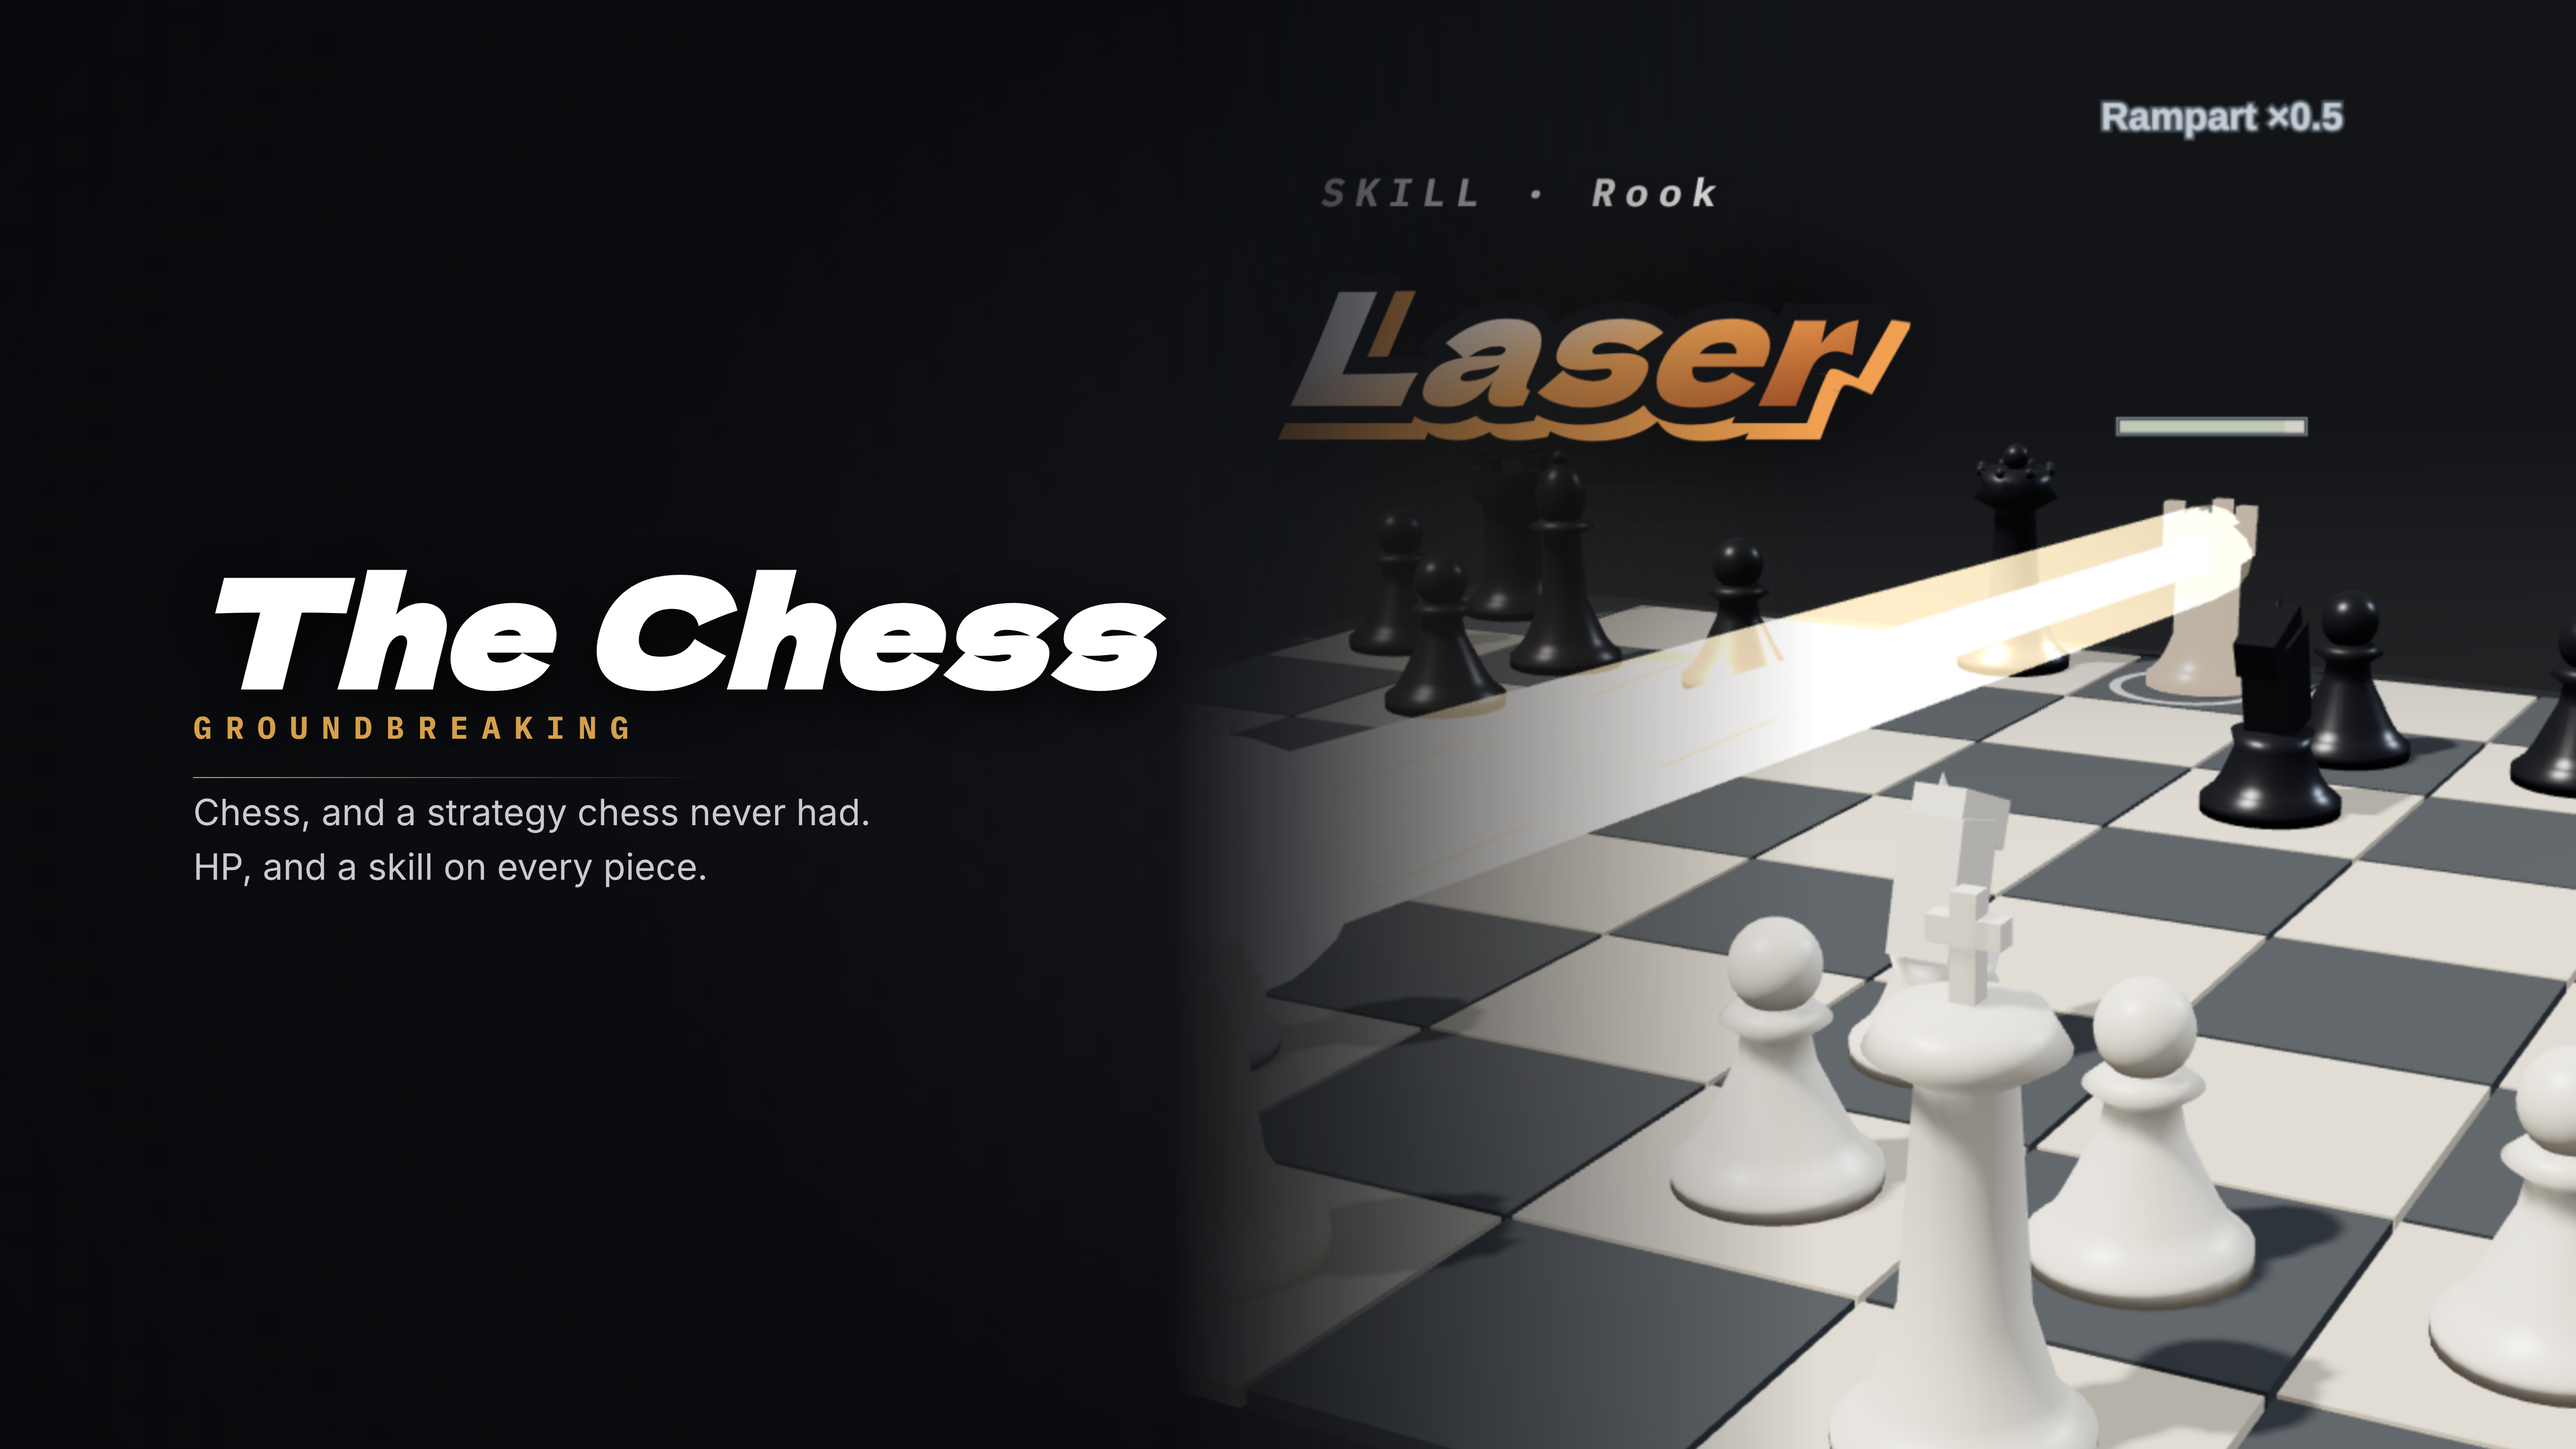
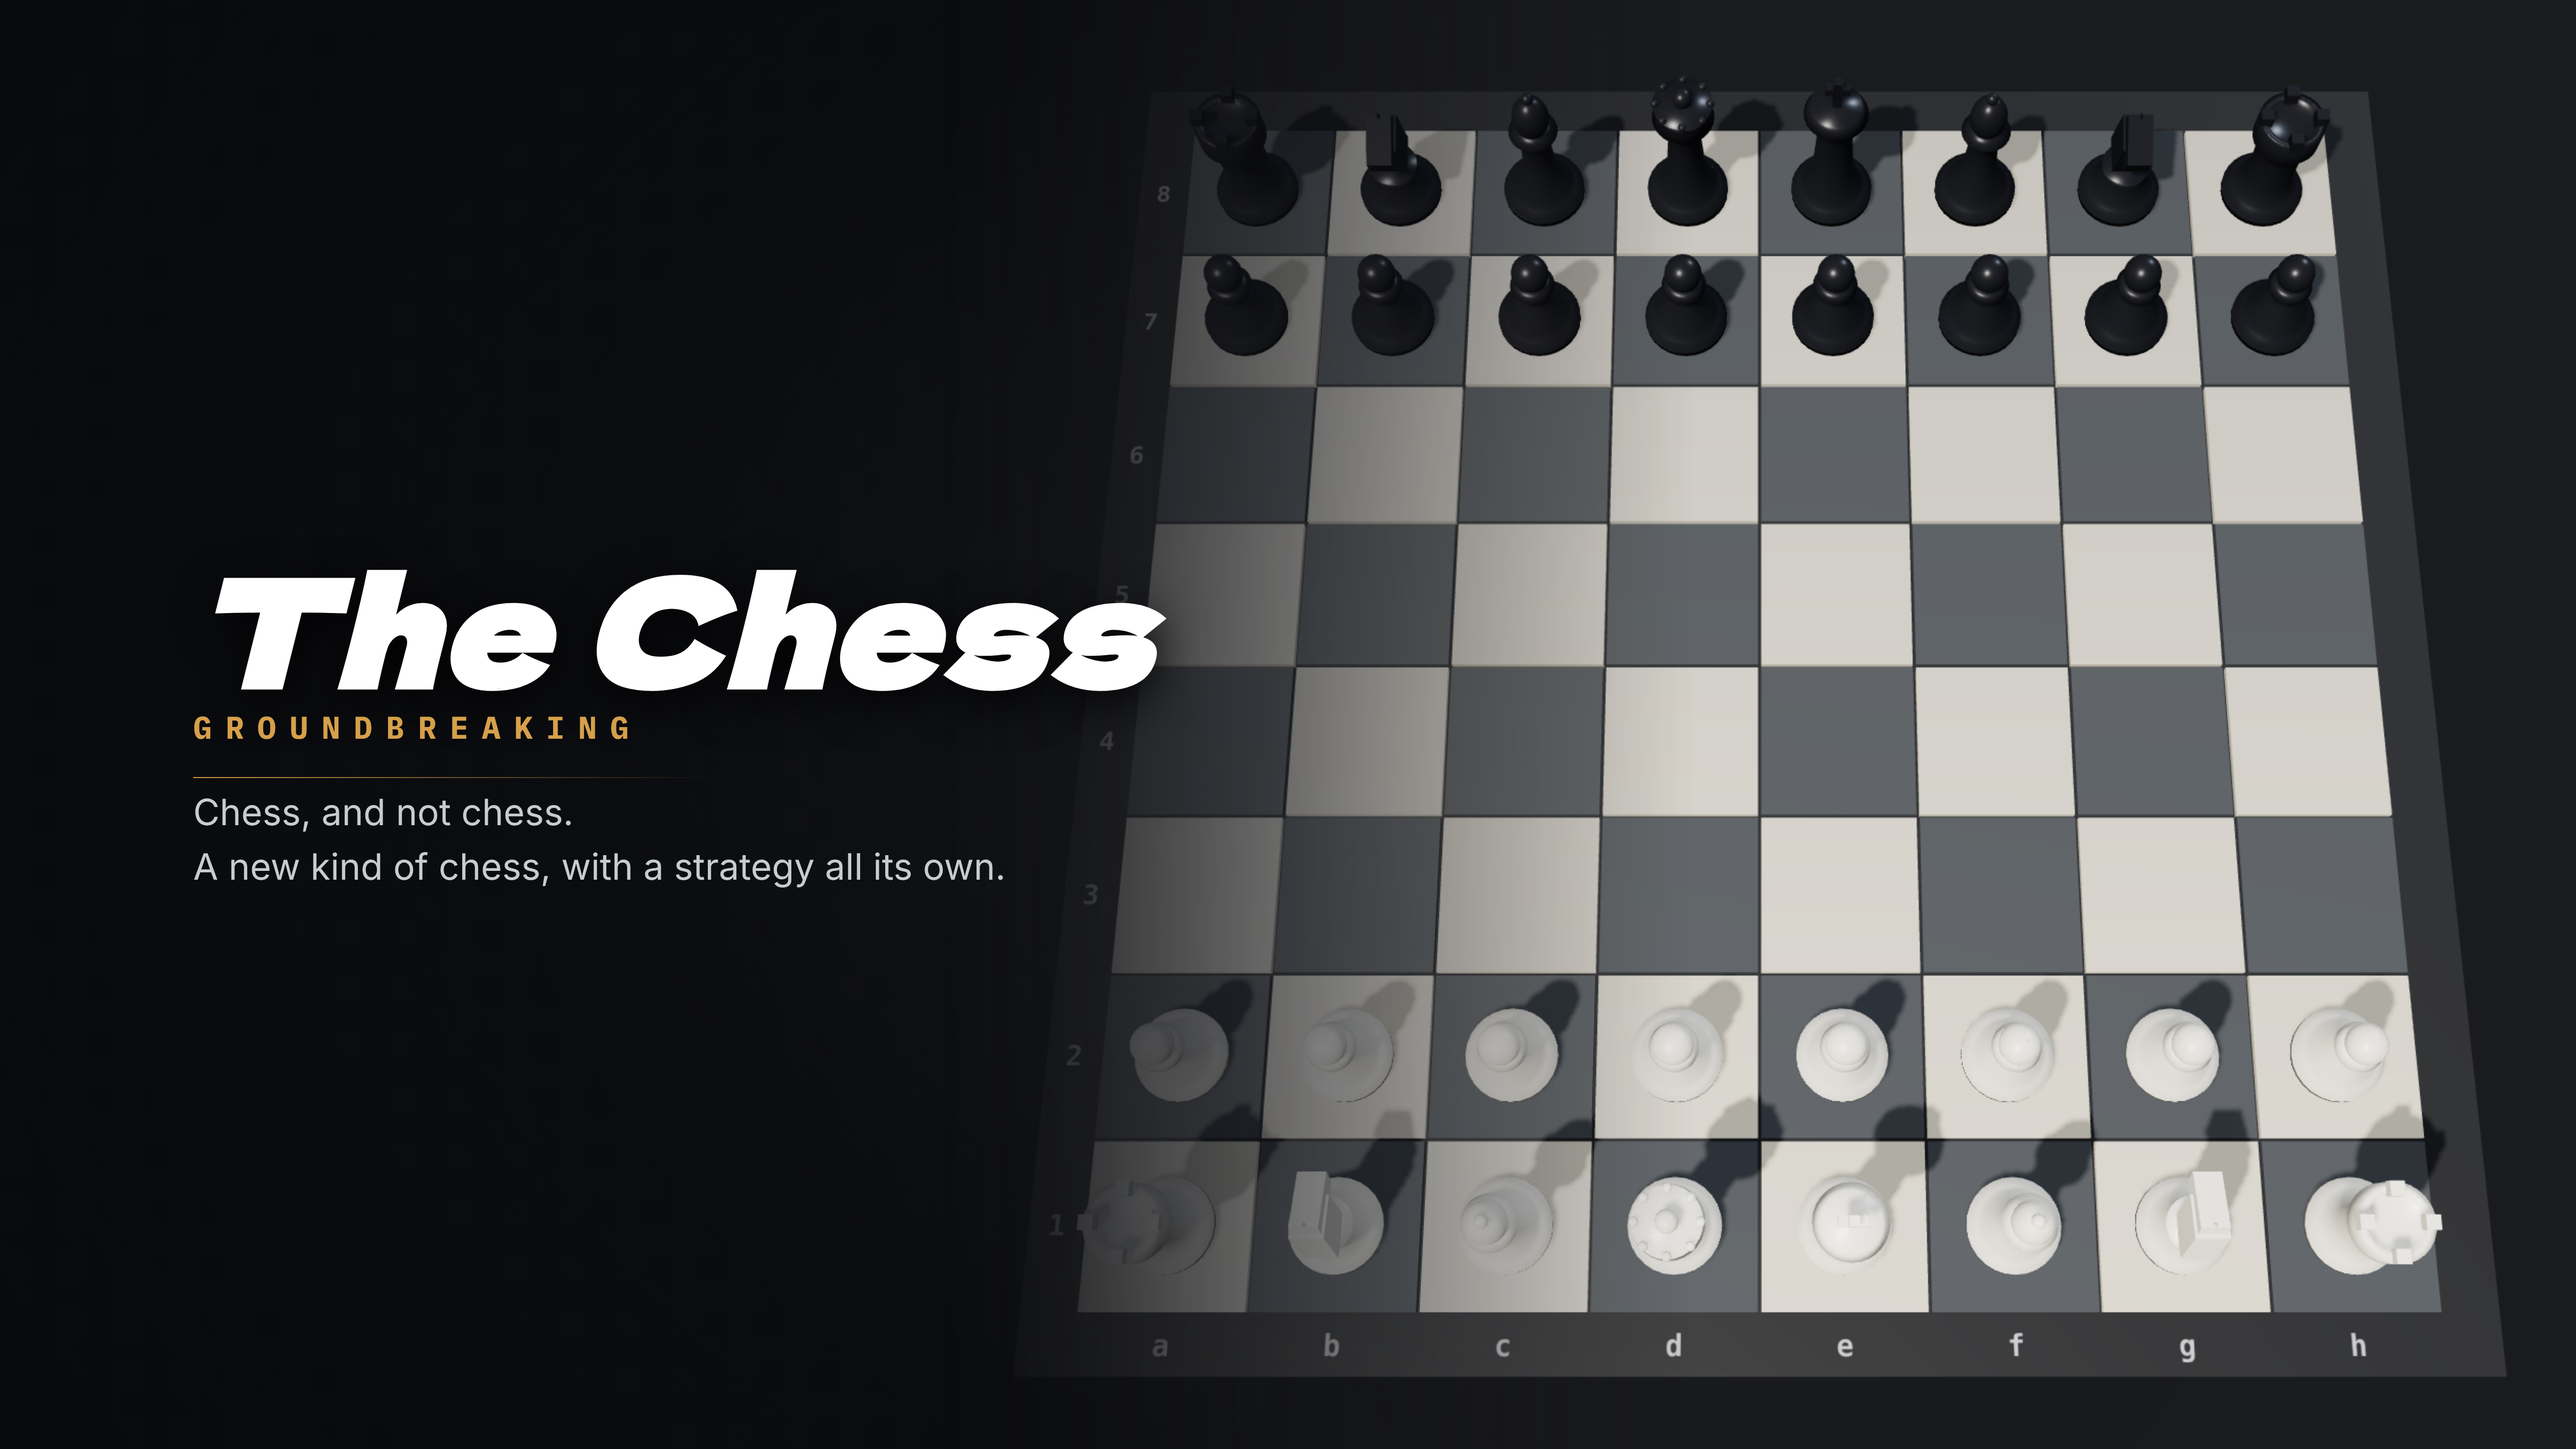
Redo the header with the starting board and the new line
The art is now the full starting position seen from above, not the Laser
cut-in, and the copy is the one the owner wrote: "chess, and not chess".

Claude-Session: https://claude.ai/code/session_01UoCaNP4Uyn1TJQHmdQYghU

diff --git a/tools/shot/header/board.js b/tools/shot/header/board.js
@@ -1,0 +1,20 @@
+const {chromium}=require('playwright');
+const wait=ms=>new Promise(r=>setTimeout(r,ms));
+const P=[];
+const back=['R','N','B','Q','K','B','N','R'];
+'abcdefgh'.split('').forEach((f,i)=>{
+  P.push(['w',back[i],f+'1']); P.push(['w','P',f+'2']);
+  P.push(['b','P',f+'7']);     P.push(['b',back[i],f+'8']);
+});
+(async()=>{
+ const b=await chromium.launch({args:['--no-sandbox','--use-gl=swiftshader','--enable-unsafe-swiftshader']});
+ const c=await b.newContext({viewport:{width:1500,height:1100},deviceScaleFactor:2,locale:'ja-JP'});
+ await c.addInitScript(()=>{try{localStorage.setItem('nc_rank',JSON.stringify({rate:2180,name:'S',unlim:true,se:false,vo:false,bgm:false}));localStorage.setItem('nc_tut1','1');localStorage.setItem('nc_tut2','1');}catch(e){}});
+ const pg=await c.newPage();
+ await pg.goto('http://127.0.0.1:8731/index.html',{waitUntil:'load'});await wait(5000);
+ await pg.evaluate(P=>__G.setPos(P,'w'),P);
+ for(let i=0;i<14;i++)await pg.screenshot({path:"/tmp/b.png"});
+ await wait(800);
+ for(let i=0;i<4;i++)await pg.screenshot({path:"/tmp/board.png"});
+ await b.close();console.log('ok');
+})().catch(e=>{console.error('FAILED',e.message);process.exit(1)});

diff --git a/tools/shot/header/_hdr.html b/tools/shot/header/_hdr.html
@@ -7,7 +7,7 @@
 html,body{width:100%;height:100%;background:#07080a;overflow:hidden}
 .wrap{position:relative;width:100%;height:100%;display:flex;align-items:center;
   background:radial-gradient(120% 140% at 78% 50%, #1b1d22 0%, #0b0c0f 46%, #07080a 100%)}
-.art{position:absolute;right:0;top:50%;transform:translateY(-50%);height:122%;
+.art{position:absolute;right:0;top:50%;transform:translateY(-50%);height:100%;
   -webkit-mask-image:linear-gradient(90deg,transparent 0%,rgba(0,0,0,.35) 16%,#000 46%);
           mask-image:linear-gradient(90deg,transparent 0%,rgba(0,0,0,.35) 16%,#000 46%)}
 .glow{position:absolute;right:6%;top:50%;transform:translateY(-50%);
@@ -22,7 +22,7 @@ h1{font-family:Dela,sans-serif;font-style:italic;color:#fff;line-height:.92;
 </style></head><body>
 <div class="wrap">
   <div class="glow"></div>
-  <img class="art" id="art" src="_hdr-art-ja.png">
+  <img class="art" id="art" src="_hdr-art.png">
   <div class="txt">
     <h1 id="t">The Chess</h1>
     <div class="sub" id="s">GROUNDBREAKING</div>

diff --git a/tools/shot/header/README.md b/tools/shot/header/README.md
@@ -2,20 +2,18 @@
 
 5244×2950 と 3840×1646 の2枚 × 日英。審査には不要な任意アセット。
 
+- 右の絵：初期配置の盤を真上から撮ったもの（`board.js`）。言語に依らないので1枚を使い回す。
+- 左の文字：タイトルロックアップと2行コピー。フォントはゲーム本体と同じ `www/fonts/` の woff2。
+
 ```
-# 1) テンプレートとアートを www/ に置く（配布物には残さないこと）
-cp tools/shot/header/_hdr.html thechess-app/www/
-python3 - <<'PY'
-from PIL import Image
-for lg in ('ja','en'):
-    im=Image.open(f'store/6.7-{lg}-5-laser.png'); w,h=im.size
-    im.crop((0,int(h*0.20),w,int(h*0.78))).save(f'thechess-app/www/_hdr-art-{lg}.png')
-PY
-# 2) www/ を 8731 で配ってから
-node tools/shot/header/render.js      # 出力は store/header/
-# 3) 後始末（これを忘れるとアプリに同梱される）
-rm -f thechess-app/www/_hdr.html thechess-app/www/_hdr-art-*.png
+# www/ を 8731 で配ってから
+node tools/shot/header/board.js                       # /tmp/board.png（盤だけ）
+cp tools/shot/header/_hdr.html  thechess-app/www/
+cp tools/shot/header/_hdr-art.png thechess-app/www/   # board.png を切り出したもの
+node tools/shot/header/render.js                      # 出力は store/header/
+rm -f thechess-app/www/_hdr.html thechess-app/www/_hdr-art.png   # 必ず消す
 ```
 
-文字は 5244×2950 を基準に、高さの比で拡大縮小している。
-フォントはゲーム本体と同じ `www/fonts/` の woff2 をそのまま使う。
+最後の行を忘れると、テンプレートと素材がアプリに同梱される。
+
+文字サイズは 5244×2950 を基準に、高さの比で拡大縮小している。
